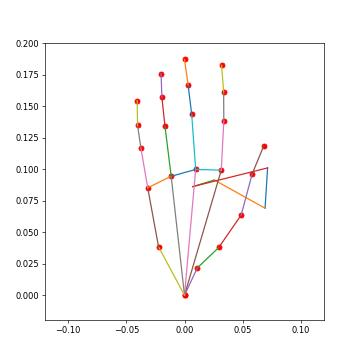
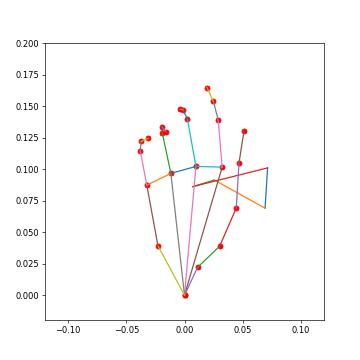
orientation fix

diff --git a/openteach/components/operators/franka.py b/openteach/components/operators/franka.py
@@ -65,6 +65,7 @@ class FrankaArmOperator(Operator):
         orient_flip = None,
         orient_glitch_deg = 30.0,
         orientation_mode = 'body',
+        position_mode = 'legacy',
     ):
         self.notify_component_start('franka arm operator')
         # Half-size (m) of the per-axis workspace clamp box around the reset
@@ -101,13 +102,29 @@ class FrankaArmOperator(Operator):
         if self.orientation_mode not in ('body', 'spatial'):
             raise ValueError("orientation_mode must be 'body' or 'spatial', got %r"
                              % orientation_mode)
+        # position_mode: how the wrist displacement drives the EE position.
+        #   'legacy' (default): displacement is expressed in the reset-time hand
+        #            frame and conjugated through the fixed H_A_R (-45deg + 6cm
+        #            Allegro mount). Reset-pose dependent AND skewed -> moving the
+        #            hand along one axis drives the robot diagonally, and the
+        #            mapping changes with how the hand was tilted at reset.
+        #   'world'  (reset-independent, skew-free): the WORLD-frame wrist
+        #            displacement (t_now - t_reset) mapped straight through
+        #            axis_remap. Effective map == axis_remap (a clean permutation
+        #            if axis_remap is one) -> zero off-axis leak, same regardless
+        #            of reset orientation. Recalibrate axis_remap once for it.
+        self.position_mode = str(position_mode).lower()
+        if self.position_mode not in ('legacy', 'world'):
+            raise ValueError("position_mode must be 'legacy' or 'world', got %r"
+                             % position_mode)
         # Reject wrist-orientation jumps larger than this per frame (deg). 0 off.
         self._orient_glitch_rad = np.radians(float(orient_glitch_deg))
         self._prev_wrist_R = None
-        print('[franka operator] BUILD 2026-07-23 : orient glitch guard ACTIVE '
-              '(orient_glitch_deg=%s, orient_follow=%s, orientation_mode=%s) + wpos logging'
-              % (orient_glitch_deg, self.orient_follow, self.orientation_mode),
-              flush=True)
+        print('[franka operator] BUILD 2026-07-23b : glitch guard ACTIVE '
+              '(orient_glitch_deg=%s, orient_follow=%s, orientation_mode=%s, '
+              'position_mode=%s) + wpos logging'
+              % (orient_glitch_deg, self.orient_follow, self.orientation_mode,
+                 self.position_mode), flush=True)
         # Correct the Unity(left-handed, Y-up) vs robot(right-handed, Z-up)
         # handedness mismatch that makes hand-up map to robot-down. When True,
         # the vertical component of the mapped displacement is negated so
@@ -390,9 +407,16 @@ class FrankaArmOperator(Operator):
 
         # World->robot axis calibration on the displacement from the reset pose:
         # first the configurable axis_remap (which robot axis each hand direction
-        # drives), then the optional vertical flip. Identity remap + no flip
-        # reproduces the original behaviour.
-        disp = H_RT_RH[:3, 3] - H_RI_RH[:3, 3]
+        # drives), then the optional vertical flip.
+        if self.position_mode == 'world':
+            # Reset-independent, skew-free: map the WORLD-frame wrist displacement
+            # (t_now - t_reset) straight through axis_remap -- no H_A_R rotation,
+            # no reset-hand-frame. Effective map == axis_remap.
+            disp = H_HT_HH[:3, 3] - H_HI_HH[:3, 3]
+        else:
+            # legacy: displacement in the reset-time hand frame, conjugated
+            # through H_A_R (reset-pose dependent + -45deg skew).
+            disp = H_RT_RH[:3, 3] - H_RI_RH[:3, 3]
         disp = self.axis_remap @ disp
         if self.flip_vertical:
             disp[2] = -disp[2]
